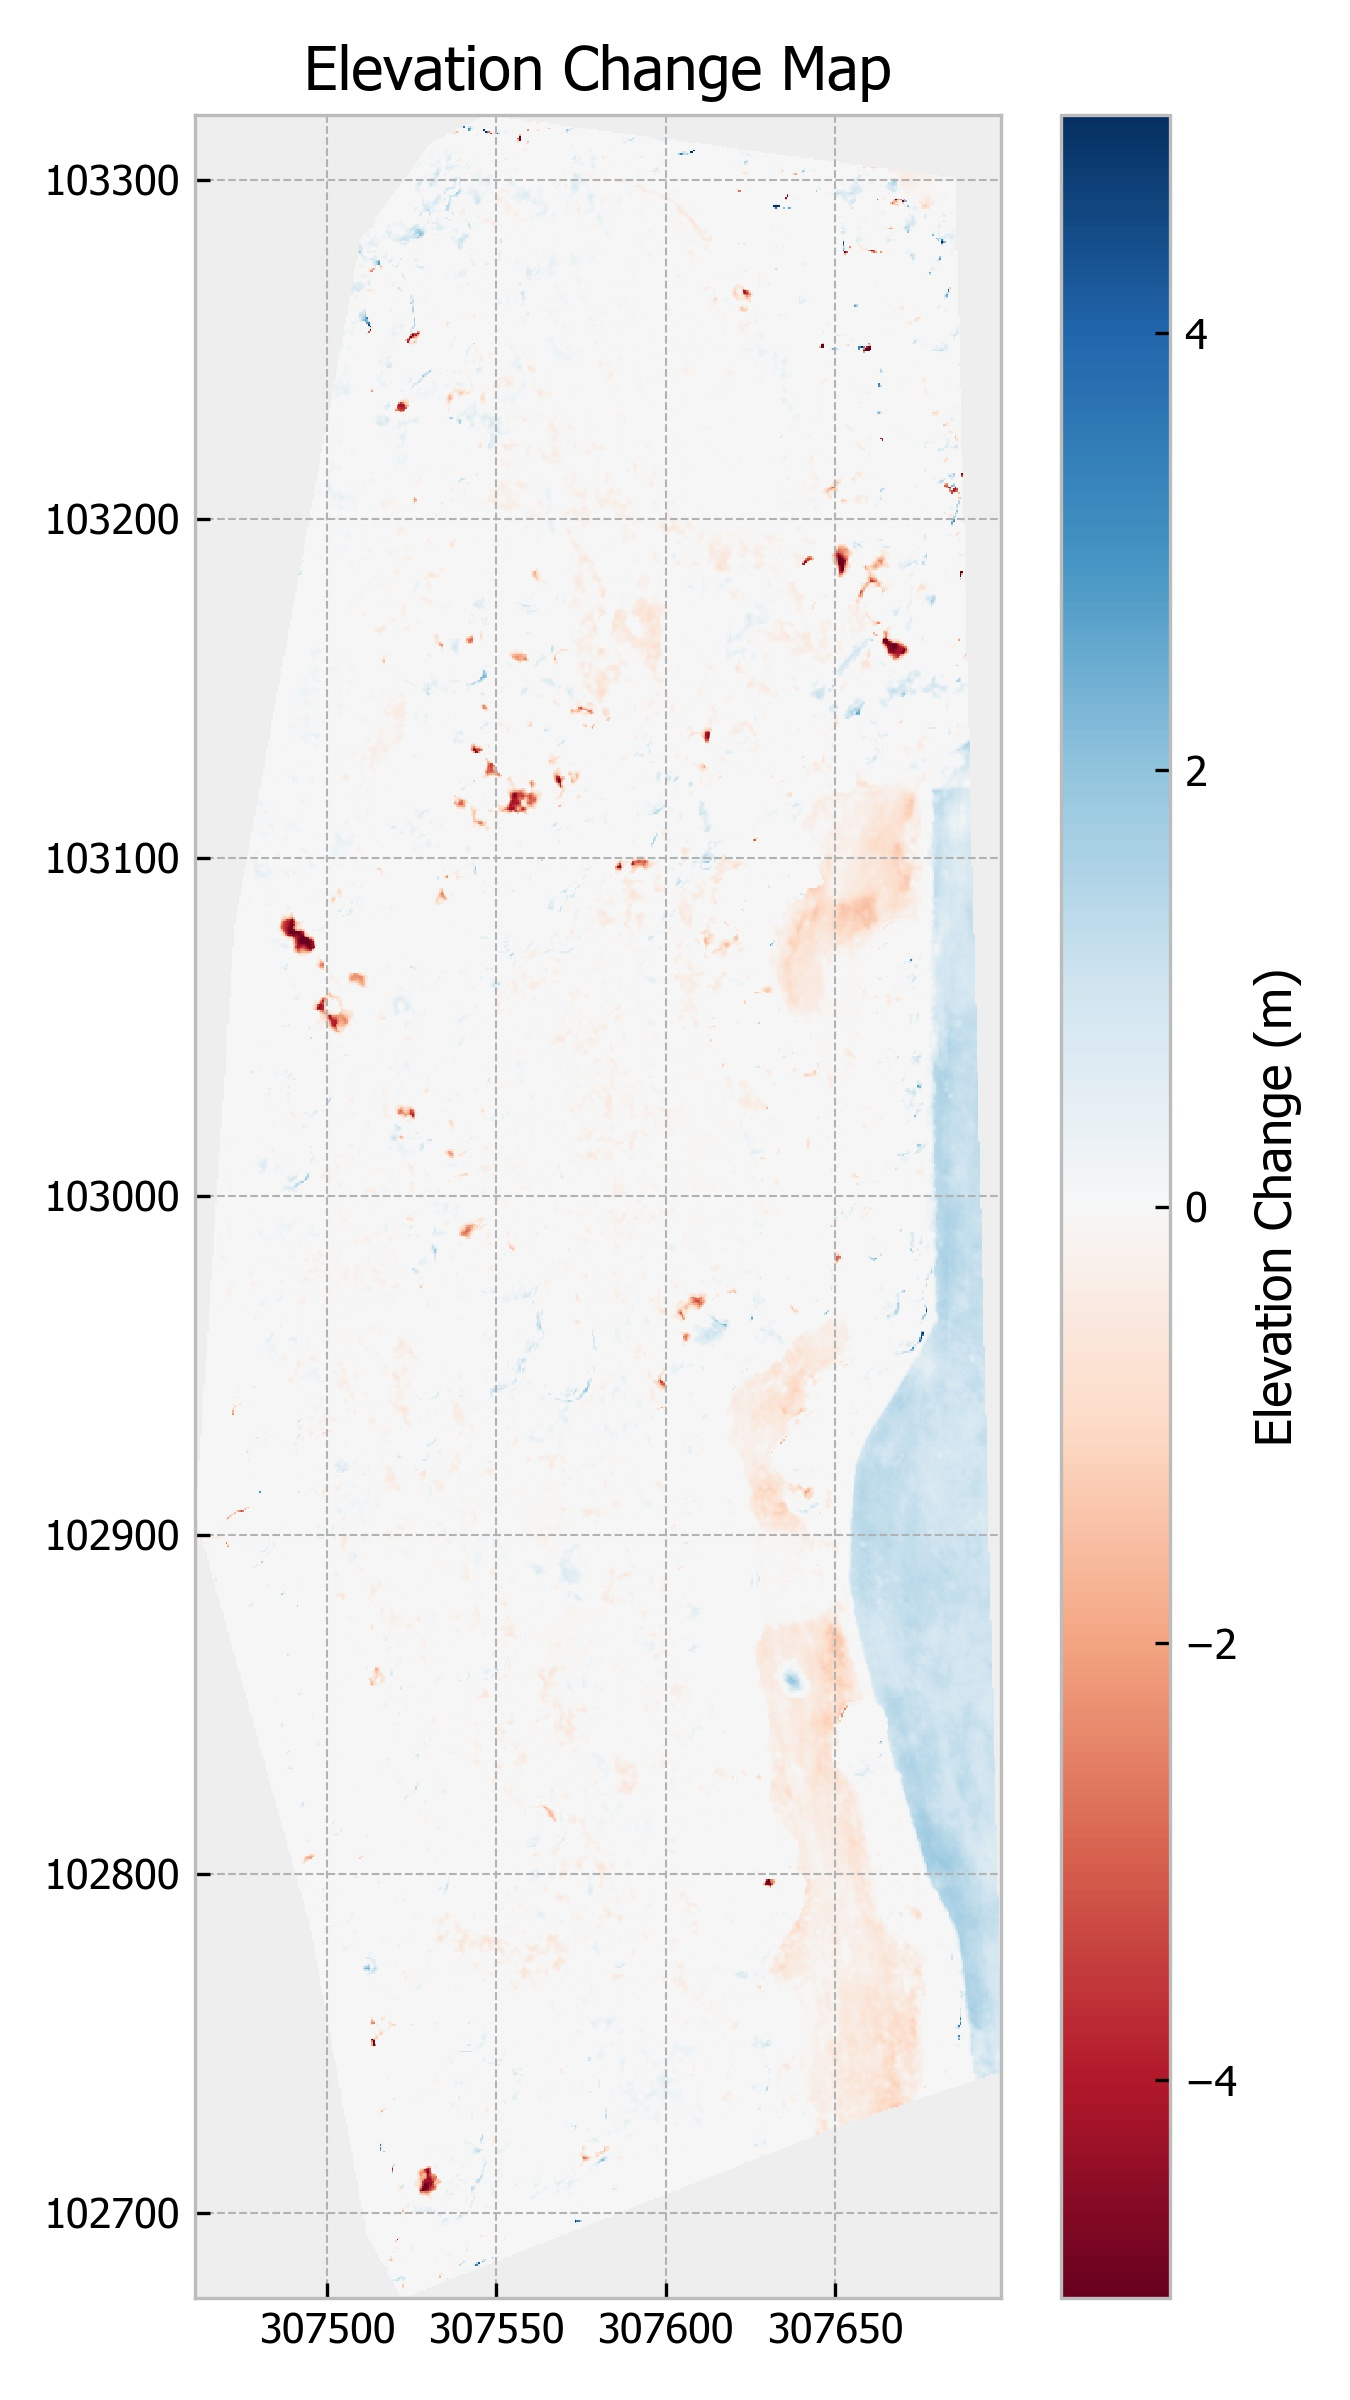
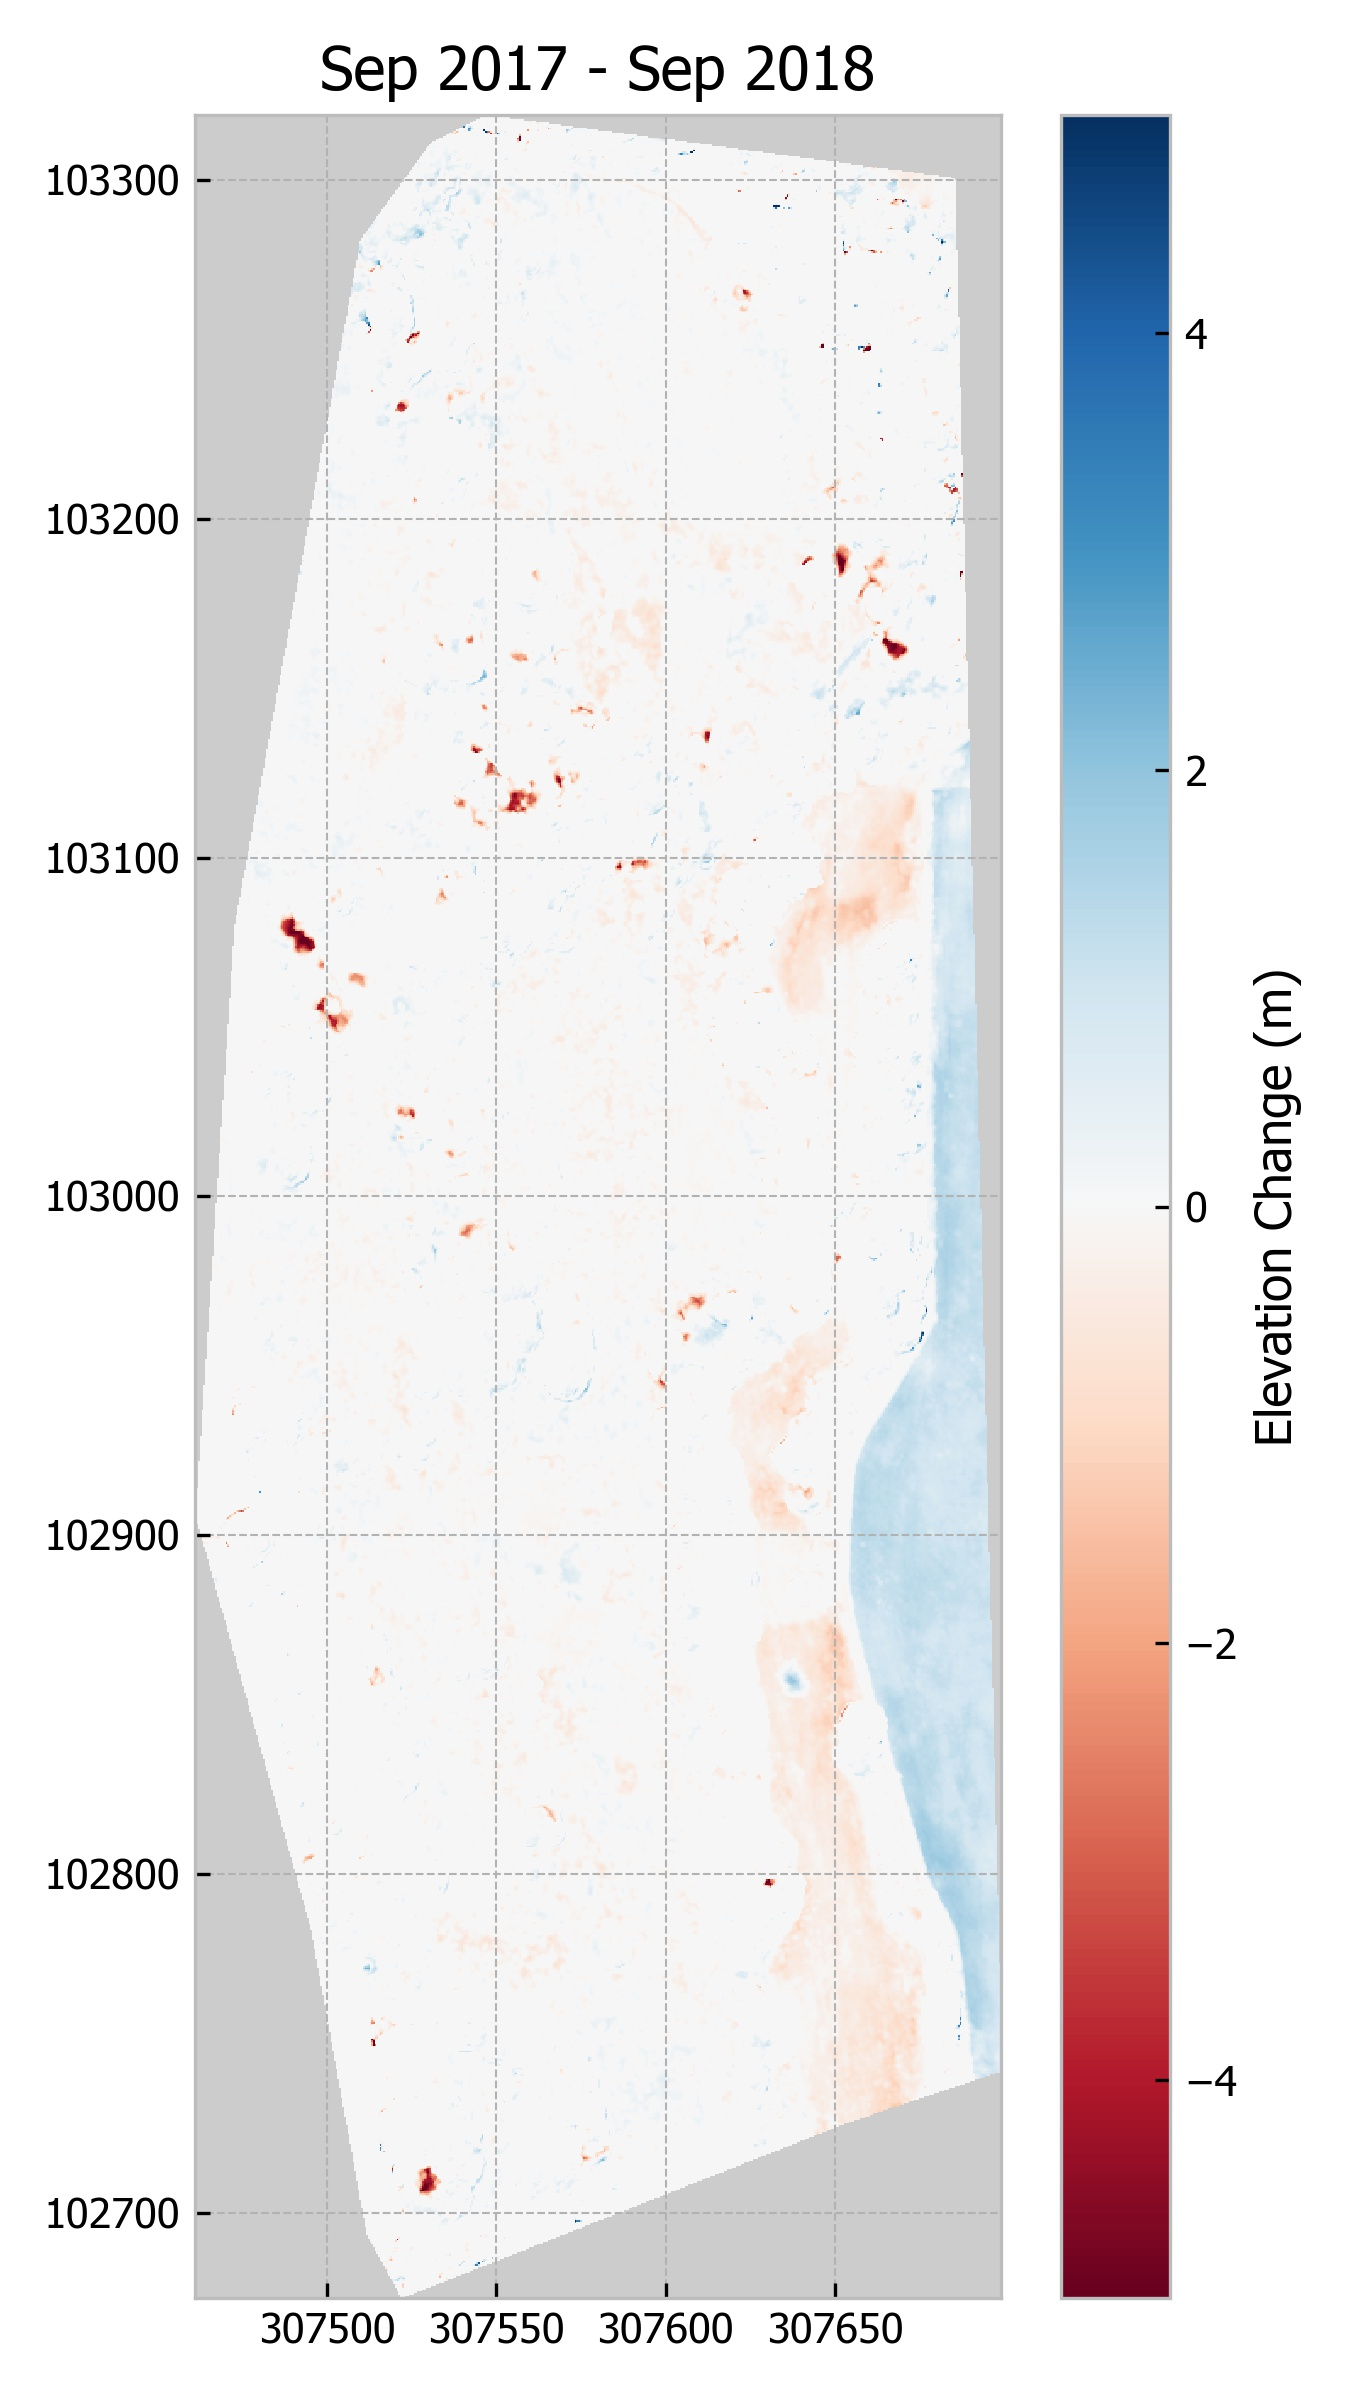
plotting background now grey - images updated too.

Changed region(s): [[0.1244, 0.0, 0.7467, 0.75], [0.1244, 0.625, 0.7467, 0.9688]]

diff --git a/HG_CWC_Add_tasks/HG_CWC_workflow_P2.py b/HG_CWC_Add_tasks/HG_CWC_workflow_P2.py
@@ -45,7 +45,7 @@ def run_functions():
                                        prec_point_cloud_1=pcp1709, prec_point_cloud_2=pcp1809,
                                        out_ras=DoD_Sep17_Sep18, epsg=epsg_code, mask=mask_shp)
 
-    pcplot.plot_dem_of_diff(Sep17_Sep18.ras_out_path, save_path=os.path.join(out_ras_home, "Sep17_Sep18_DOD.jpg"),
+    pcplot.plot_dem_of_diff(Sep17_Sep18.ras_out_path, save_path=os.path.join(out_ras_home, "DOD_example1.jpg"),
                             v_range=(-5, 5), title="Sep 2017 - Sep 2018")
 
 
@@ -87,11 +87,11 @@ def run_functions():
                             v_range=(-5, 5), title="Dec 2016 - Mar 2018")
 
     #
-    # pcplot.plot_dsm(dsm_path=dsm1809, dpi=300, save_path=os.path.join(out_ras_home, "test_dsm1.jpg"))
-    #
-    # pcplot.plot_precision(prec_map_path=pcp1809, dpi=300, save_path=os.path.join(out_ras_home, "test_precmap1.jpg"))
-    #
-    # pcplot.plot_roughness(dsm_path=dsm1809, dpi=300, save_path=os.path.join(out_ras_home, "test_roughness1.jpg"))
+    pcplot.plot_dsm(dsm_path=dsm1809, dpi=300, save_path=os.path.join(out_ras_home, "test_dsm1.jpg"))
+
+    pcplot.plot_precision(prec_map_path=pcp1809, dpi=300, save_path=os.path.join(out_ras_home, "test_precmap1.jpg"))
+
+    pcplot.plot_roughness(dsm_path=dsm1809, dpi=300, save_path=os.path.join(out_ras_home, "test_roughness1.jpg"))
 
     # pcplot.plot_lod(Dec16_Mar18.ras_out_path, save_path=os.path.join(out_ras_home, "Dec16_Mar18_LOD.jpg"))
     #

diff --git a/sfm_gridz/plot_gridz.py b/sfm_gridz/plot_gridz.py
@@ -44,6 +44,8 @@ def plot_raster(raster, band, cmap, save_path, dpi, v_range, title, obs):
         fig.colorbar(img, ax=ax, label='{0} ({1})'.format(obs, units))
         plt.title(title)
 
+        ax.set_facecolor('0.8')
+
         # steps = (ras.bounds[2] - ras.bounds[0])/3.5
         # plt.xticks(np.arange(ras.bounds[0], ras.bounds[2], step=steps))
         plt.show()
